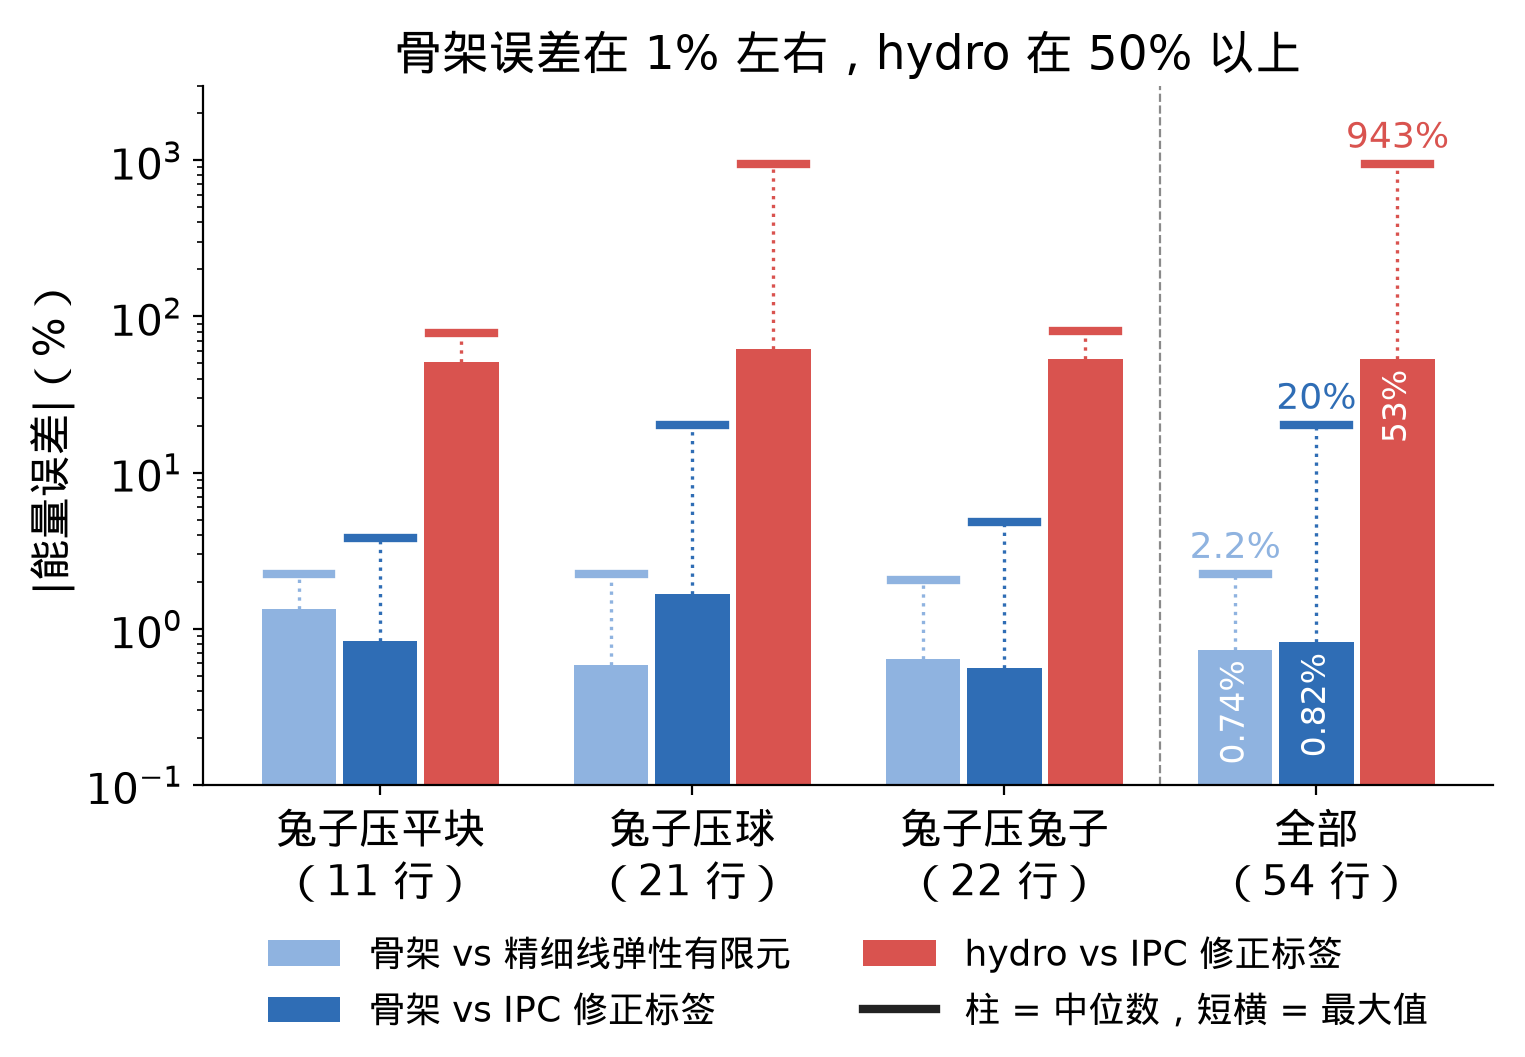
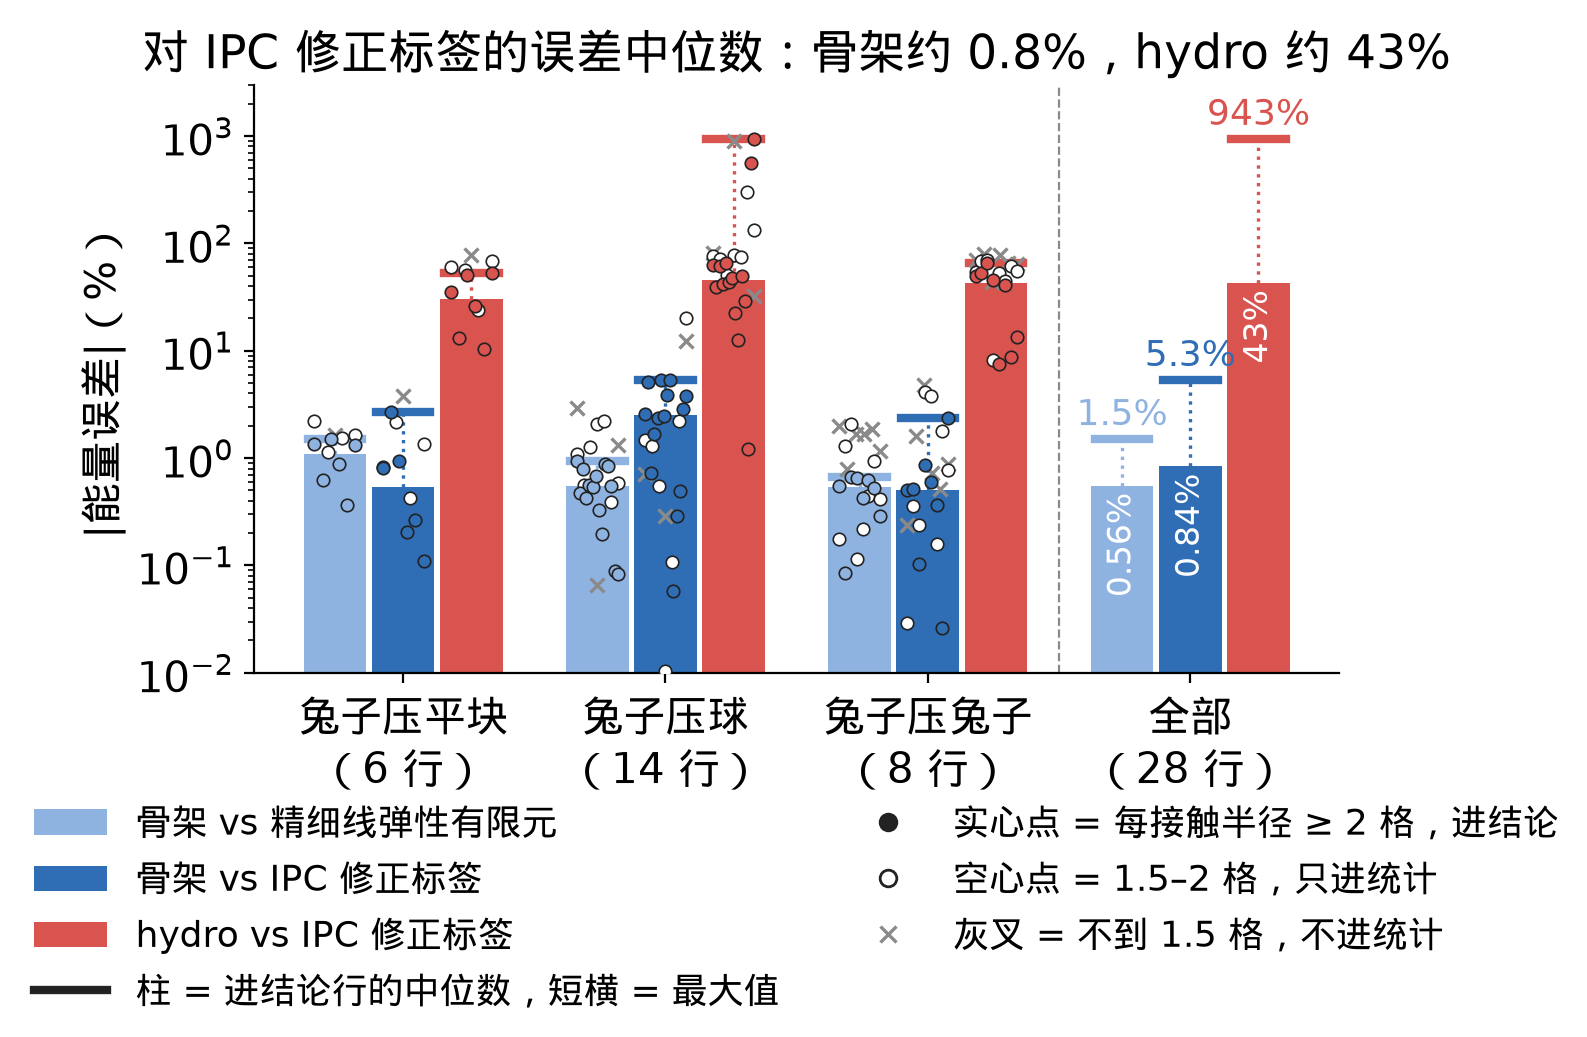
week5: option-C row sets (28 conclusion rows), hydro error as median (~43%, worst 943%), regenerated error-bar and dragon figures (meeting-draft be8ac9f)

diff --git a/week5.html b/week5.html
@@ -242,7 +242,7 @@ html.annot-on #annot-capture { display: block; }
   html.annot-fixed pre, html.annot-fixed mjx-container[display="true"] { overflow: visible; }
 }
 </style>
-<script>window.NIPC_PAGE = "ac4e4ec5e439";</script>
+<script>window.NIPC_PAGE = "4223d877e5a2";</script>
 <script>window.MathJax = {tex: {inlineMath: [["\\(", "\\)"]], displayMath: [["\\[", "\\]"]]}, svg: {fontCache: "global"}};</script>
 <script src="https://cdn.jsdelivr.net/npm/mathjax@3.2.2/es5/tex-svg.js" async></script>
 <a class="skip" href="#content">跳转到正文</a><div id="progress" aria-hidden="true"></div>
@@ -275,7 +275,7 @@ html.annot-on #annot-capture { display: block; }
 <a class="toc-level-2" href="#w6">6. 接下来</a></nav></details></aside><main id="content"><div class="eyebrow">NEURAL-IPC <span>·</span> WEEKLY REPORT</div><article>
 <header class="top"><h1>Week 5（TODO 2026-10-26）</h1><p class="summary">普通形状（兔子、龙）数据集 49 个构型；在兔子上验证骨架（含整体让开项）对线弹性与 IPC 标签、对比 hydro；模型每一步公式的出处（力学、机械、图形学）；理想 test case。</p></header>
 <div class="lead"><p>这周的 TODO 有四条：用普通形状（不对称的，比如兔子）做数据集；用这些形状验证架构，跟 baseline 比；查文献，看模型里的公式有多少是已知的；整理理想情况下的 test case。</p>
-<p>先说结论。数据集做好了，四类一共 49 个构型。架构在兔子上是对的：骨架和精细线弹性有限元、和 IPC 修正标签都差 1% 左右（中位数），hydro 和 IPC 修正标签差 50% 以上。hydro 差的原因也找到了：它本质上是一床弹簧垫，能量随压深涨的速度跟真实物体不一样，所以调参救不回来。模型里的公式大部分有出处，我们自己定的只有几条。能写出精确答案的理想情况，骨架测过的都对上了。</p></div>
+<p>先说结论。数据集做好了，四类一共 49 个构型。架构在兔子上是对的：骨架和精细线弹性有限元、和 IPC 修正标签都差 1% 左右（中位数），hydro 和 IPC 修正标签的误差中位数约 43%，最坏的一行差 943%。hydro 差的原因也找到了：它本质上是一床弹簧垫，能量随压深涨的速度跟真实物体不一样，所以调参救不回来。模型里的公式大部分有出处，我们自己定的只有几条。能写出精确答案的理想情况，骨架测过的都对上了。</p></div>
 <section id="w1"><h2>普通形状的数据集</h2>
 <p>数据分四类，从简单到复杂排，后一类只比前一类多一个难点，这样哪里出问题能看出来是哪一步带进来的。每个构型压三个深度：0.003、0.006、0.012。</p>
 <div class="tablewrap"><table>
@@ -348,23 +348,23 @@ html.annot-on #annot-capture { display: block; }
 <tbody>
 <tr>
 <td>骨架 vs 精细线弹性有限元</td>
-<td>约 0.7%</td>
-<td>2.2%</td>
+<td>约 0.6%</td>
+<td>1.5%</td>
 </tr>
 <tr>
 <td>骨架 vs IPC 修正标签</td>
 <td>约 0.8%</td>
-<td>20.1%</td>
+<td>5.3%</td>
 </tr>
 <tr>
 <td>hydro vs IPC 修正标签</td>
-<td>约 53%</td>
+<td>约 43%</td>
 <td>943%</td>
 </tr>
 </tbody>
 </table></div>
-<p>统计的是兔子压平块、压球、压兔子里的 54 行（去掉接触格太少、两处接触和接近两处接触的行），兔子压龙不在内。</p>
-<figure style="margin:12px 0"><img src="assets/images/w5t_w5_error_bars.png" width="1525" height="1057" style="width:606px;max-width:100%;height:auto" alt="柱子是能量误差的中位数，短横是最大值，纵轴是对数；最右一组是全部 54 行。骨架不管跟精细线弹性有限元比，还是跟比值修正后的 IPC 标签比，中位数都在 1% 左右；hydro 的中位数是 53%，最坏的一行大了 943%。IPC 标签是我们自己造的，和 hydro 比的正式裁判是解析解（第 5 节），这张图里 hydro 那一栏只作参照。" loading="lazy"><figcaption class="small">柱子是能量误差的中位数，短横是最大值，纵轴是对数；最右一组是全部 54 行。骨架不管跟精细线弹性有限元比，还是跟比值修正后的 IPC 标签比，中位数都在 1% 左右；hydro 的中位数是 53%，最坏的一行大了 943%。IPC 标签是我们自己造的，和 hydro 比的正式裁判是解析解（第 5 节），这张图里 hydro 那一栏只作参照。</figcaption></figure>
+<p>统计的是兔子压平块、压球、压兔子里够格下结论的 28 行：线弹性参照在每个接触半径上至少有 2 个格子，含两处接触挨得很近的行，不含确定是两处接触的行；兔子压龙不在内。放宽到每个接触半径至少 1.5 个格子（47 行），三个中位数是 0.6%、0.8%、51%；骨架对 IPC 修正标签的最大值变成 20.1%，出在一处又薄又会转的地方深压，那一行只有 1.7 个格子。</p>
+<figure style="margin:12px 0"><img src="assets/images/w5t_w5_error_bars.png" width="1587" height="1037" style="width:643px;max-width:100%;height:auto" alt="柱子是进结论的 28 行（含两处接触挨得很近的行）的能量误差中位数，短横是最大值，纵轴是对数；最右一组是这 28 行合起来。前三组里每一行另画一个点：实心是每个接触半径有 2 个以上格子、进结论的行，空心是 1.5–2 个格子、只进统计的行，灰叉是不到 1.5 个格子、不进统计的行。骨架不管跟精细线弹性有限元比，还是跟比值修正后的 IPC 标签比，中位数都在 1% 左右；hydro 的中位数是 43%，最坏的一行大了 943%。IPC 标签是我们自己造的，和 hydro 比的正式裁判是解析解（第 5 节），这张图里 hydro 那一栏只作参照。" loading="lazy"><figcaption class="small">柱子是进结论的 28 行（含两处接触挨得很近的行）的能量误差中位数，短横是最大值，纵轴是对数；最右一组是这 28 行合起来。前三组里每一行另画一个点：实心是每个接触半径有 2 个以上格子、进结论的行，空心是 1.5–2 个格子、只进统计的行，灰叉是不到 1.5 个格子、不进统计的行。骨架不管跟精细线弹性有限元比，还是跟比值修正后的 IPC 标签比，中位数都在 1% 左右；hydro 的中位数是 43%，最坏的一行大了 943%。IPC 标签是我们自己造的，和 hydro 比的正式裁判是解析解（第 5 节），这张图里 hydro 那一栏只作参照。</figcaption></figure>
 <p>骨架本身是线性的。它和 IPC 之间剩下的那一点差，来自大变形，差得最多的是又薄又会转的地方。以后网络要学的就是这一小块。</p>
 <h3 id="w2-4">hydro 为什么不行</h3>
 
@@ -379,8 +379,8 @@ html.annot-on #annot-capture { display: block; }
 </ol></details>
 <p>真实的厚物体（Hertz）是 2.5 次方。hydro 只有一个参数可以调，调参只能把整条曲线放大缩小，改不了次方，所以怎么调都对不上。</p>
 <figure style="margin:12px 0"><img src="assets/images/w5t_w5_energy_powers.png" width="1478" height="1173" style="width:529px;max-width:100%;height:auto" alt="同一个球越压越深，三种模型给的能量画在双对数坐标里，所以次方就是斜率。绿线是真实的厚物体（Hertz）\(\tfrac{8}{15}E^*\sqrt R\,\delta^{5/2}\)，斜率 2.5；蓝线是弹簧垫 \(\pi kR/3\cdot\delta^3\)，红线是 hydro \(\pi kR/6\cdot\delta^3\)，两条斜率都是 3，压得越深涨得比真实越快。两条灰虚线是 hydro 的 k 乘 100、除 100：整条线只上下平移，斜率还是 3，所以调 k 只能在一个压深上对上。图里的 R、E*、k 是为了画出形状取的示意值，不是实测。" loading="lazy"><figcaption class="small">同一个球越压越深，三种模型给的能量画在双对数坐标里，所以次方就是斜率。绿线是真实的厚物体（Hertz）\(\tfrac{8}{15}E^*\sqrt R\,\delta^{5/2}\)，斜率 2.5；蓝线是弹簧垫 \(\pi kR/3\cdot\delta^3\)，红线是 hydro \(\pi kR/6\cdot\delta^3\)，两条斜率都是 3，压得越深涨得比真实越快。两条灰虚线是 hydro 的 k 乘 100、除 100：整条线只上下平移，斜率还是 3，所以调 k 只能在一个压深上对上。图里的 R、E*、k 是为了画出形状取的示意值，不是实测。</figcaption></figure>
-<p>薄的地方 hydro 差得最多：兔子压在龙身上薄的那块（兔子压龙第二批 4 个构型），龙那边的变形几乎都在离接触点很远的地方，是整块在动，hydro 只看重叠区，看不到这部分，结果硬了 6 到 134 倍。骨架有整体那一项，和线弹性参照比，能进结论的行只差千分之一以内；和 IPC 修正标签比差 0.2%–8.6%，剩下的是大变形。</p>
-<figure style="margin:12px 0"><img src="assets/images/w5t_w5_dragon_thin.png" width="2092" height="989" style="width:888px;max-width:100%;height:auto" alt="兔子压在龙身上很薄的四个地方，每处压三个深度。左图是能量除以 IPC 修正标签的倍数：骨架（蓝点）都贴在 1 上，hydro（红柱）是 6 到 134 倍，压得越深差得越多。原因是薄的地方变形主要在离接触点很远的地方，整块在动，hydro 只看两物体的重叠区，看不到这部分。右图把骨架的误差放大来看：对精细线弹性大多在千分之几，对 IPC 标签在 9% 以内，剩下的主要是大变形。斜线空心的柱是接触区格子太少的行，只作参考。" loading="lazy"><figcaption class="small">兔子压在龙身上很薄的四个地方，每处压三个深度。左图是能量除以 IPC 修正标签的倍数：骨架（蓝点）都贴在 1 上，hydro（红柱）是 6 到 134 倍，压得越深差得越多。原因是薄的地方变形主要在离接触点很远的地方，整块在动，hydro 只看两物体的重叠区，看不到这部分。右图把骨架的误差放大来看：对精细线弹性大多在千分之几，对 IPC 标签在 9% 以内，剩下的主要是大变形。斜线空心的柱是接触区格子太少的行，只作参考。</figcaption></figure>
+<p>薄的地方 hydro 差得最多：兔子压在龙身上薄的那块（兔子压龙第二批 4 个构型），龙那边的变形几乎都在离接触点很远的地方，是整块在动，hydro 只看重叠区，看不到这部分，结果硬了 6 到 134 倍。这批线弹性参照的格子偏粗：12 行里只有 1 行每个接触半径有 2 个以上格子、能进结论，3 行有 1.5–2 个格子、只进统计，其余 8 行只作参考。在这 4 行上，骨架有整体那一项，和线弹性参照只差 0.4% 以内，和 IPC 修正标签差 4.1%–8.6%，剩下的是大变形；hydro 硬了 7 到 20 倍。</p>
+<figure style="margin:12px 0"><img src="assets/images/w5t_w5_dragon_thin.png" width="1867" height="1000" style="width:784px;max-width:100%;height:auto" alt="兔子压在龙身上很薄的四个地方，每处压三个深度。左图是能量除以 IPC 修正标签的倍数：骨架（蓝点）都贴在 1 上，hydro（红柱）是 6 到 134 倍，压得越深差得越多。原因是薄的地方变形主要在离接触点很远的地方，整块在动，hydro 只看两物体的重叠区，看不到这部分。右图把骨架的误差放大来看：对精细线弹性大多在千分之几，对 IPC 标签在 9% 以内，剩下的主要是大变形。实心的是每个接触半径有 2 个以上格子、能进结论的行（1 行），浅色的是 1.5–2 个格子、只进统计的行（3 行），斜线空心的是不到 1.5 个格子、只作参考的行（8 行）。" loading="lazy"><figcaption class="small">兔子压在龙身上很薄的四个地方，每处压三个深度。左图是能量除以 IPC 修正标签的倍数：骨架（蓝点）都贴在 1 上，hydro（红柱）是 6 到 134 倍，压得越深差得越多。原因是薄的地方变形主要在离接触点很远的地方，整块在动，hydro 只看两物体的重叠区，看不到这部分。右图把骨架的误差放大来看：对精细线弹性大多在千分之几，对 IPC 标签在 9% 以内，剩下的主要是大变形。实心的是每个接触半径有 2 个以上格子、能进结论的行（1 行），浅色的是 1.5–2 个格子、只进统计的行（3 行），斜线空心的是不到 1.5 个格子、只作参考的行（8 行）。</figcaption></figure>
 <h3 id="w2-5">动态</h3>
 
 <p>让软球带着速度撞平块。撞得够慢的话，动能会全部变成接触能，最大压深跟速度的关系是 \(v^{2/n}\)，n 是能量的次方。真实情况 n = 2.5，应该是 \(v^{0.8}\)。我们测出来是 \(v^{0.7994}\)。hydro 的 n = 3，理论上是 \(v^{0.667}\)（把 hydro 实际的能量曲线代进能量守恒，算出来是 \(v^{0.655}\)），所以换一个速度，hydro 的误差就会变。</p>
